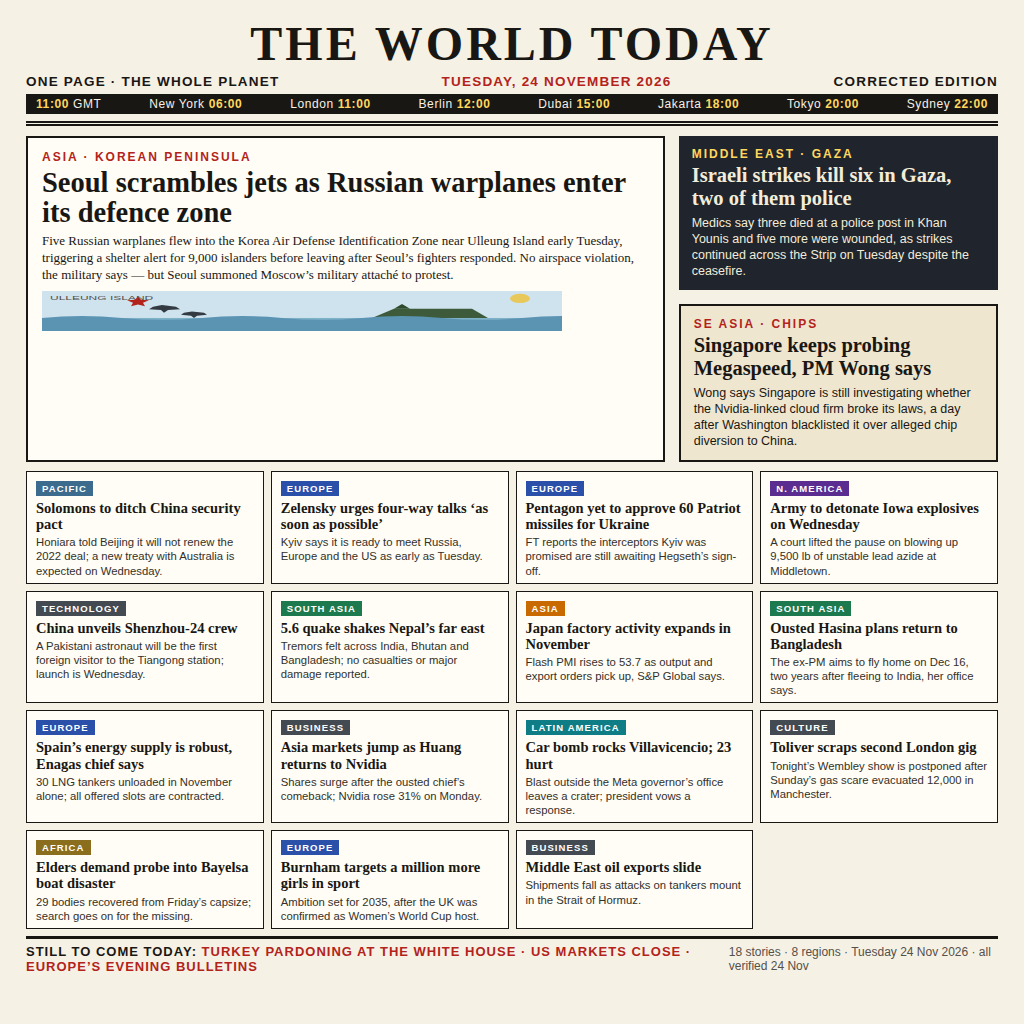
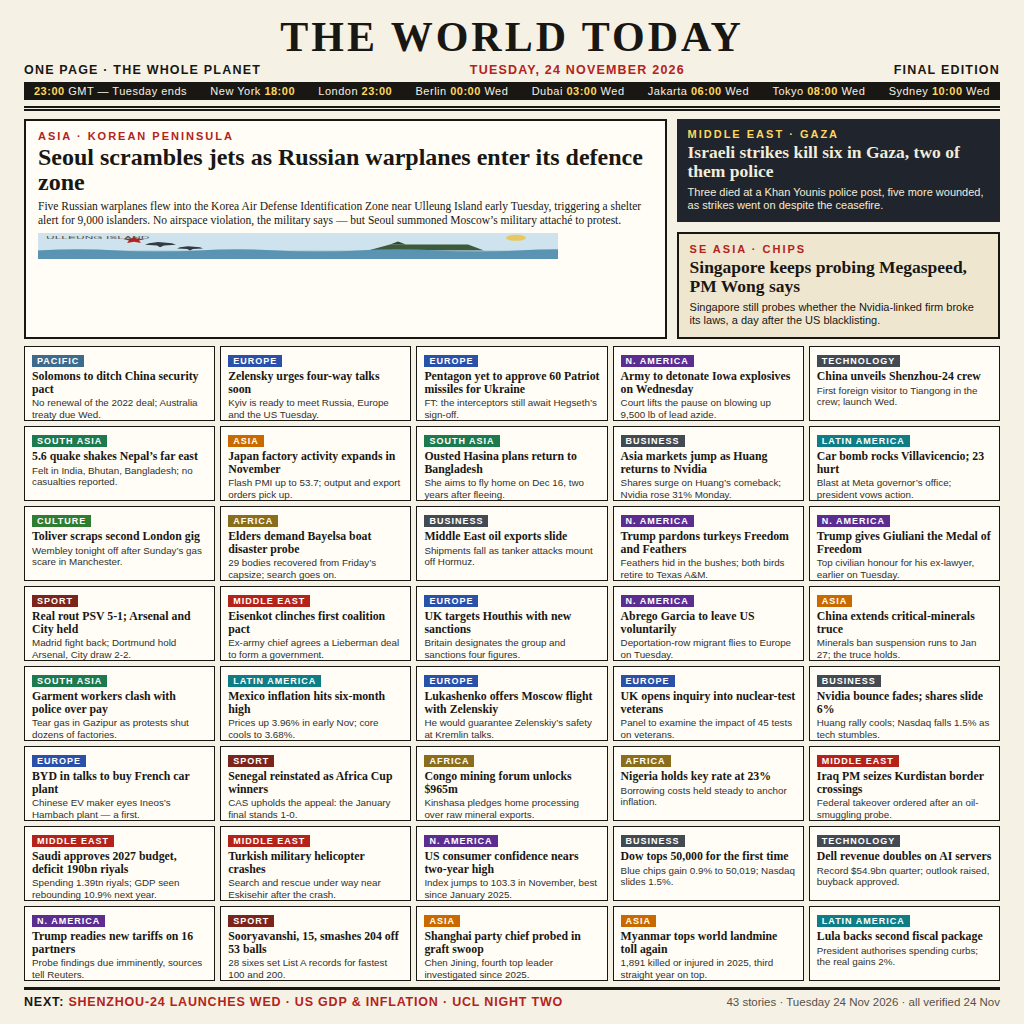
Final edition: 43 stories all verified Tue 24 Nov 2026

diff --git a/README.md b/README.md
@@ -6,15 +6,15 @@
 
 An entry for the make.fun bounty [news-image-20261124](https://make.fun/bounty/news-image-20261124): sum up the world's news of **Tuesday 24 November 2026** in one image.
 
-`main.ts` copies `entry.png` to `/output/entry.png` — no network, byte-identical on every run. The poster is a one-page broadsheet, "The World Today", drawn as HTML + inline SVG and rendered to a 1024×1024 PNG (240,636 bytes).
+`main.ts` copies `entry.png` to `/output/entry.png` — no network, byte-identical on every run. The poster is a one-page broadsheet, "The World Today", drawn as HTML + inline SVG and rendered to a 1024×1024 PNG (296,700 bytes).
 
 ## Program
 
 `main.ts` is a small authored deliverer: it resolves its own directory from its module URL, creates the output directory if it is missing, and copies `entry.png` there unchanged. It takes no arguments and reads nothing from the network, so repeated runs write identical bytes — verified locally by running it twice into separate directories and comparing the outputs byte for byte against the repository's `entry.png`.
 
-## What's on the page (corrected edition, 18 stories, 8 regions)
+## What's on the page (final edition, 43 stories, 12 sections)
 
-Every story on this page was verified against its source article's own text as an event or first report of **Tuesday 24 November 2026** — see `audit-v2.md` in the dev folder for the per-story check. This corrected edition replaces the v1 poster, whose stories mostly dated from 16–23 November.
+Every story on this page was verified against its source article's own text as an event or first report of **Tuesday 24 November 2026** — see `audit-v2.md` in the dev folder for the per-story check (50 stories verified in total; 43 fit on the page). This final edition completes the corrected v2 edition (18 stories) with the rest of Tuesday, once the day had ended in every time zone.
 
 **Lead — Asia / Korean Peninsula:** Seoul scrambles jets as Russian warplanes enter its defence zone. Five Russian warplanes entered the Korea Air Defense Identification Zone near Ulleung Island early Tuesday, triggering a shelter alert; Seoul summoned Moscow's military attache to protest.
 
@@ -22,19 +22,44 @@ Every story on this page was verified against its source article's own text as a
 
 **Cards:**
 - Pacific — Solomons to ditch China security pact
-- Europe — Zelensky urges four-way talks 'as soon as possible'
+- Europe — Zelensky urges four-way talks soon
 - Europe — Pentagon yet to approve 60 Patriot missiles for Ukraine
 - N. America — Army to detonate Iowa explosives on Wednesday
 - Technology — China unveils Shenzhou-24 crew
 - South Asia — 5.6 quake shakes Nepal's far east
 - Asia — Japan factory activity expands in November
 - South Asia — Ousted Hasina plans return to Bangladesh
-- Europe — Spain's energy supply is robust, Enagas chief says
 - Business — Asia markets jump as Huang returns to Nvidia
 - Latin America — Car bomb rocks Villavicencio; 23 hurt
 - Culture — Toliver scraps second London gig
-- Africa — Elders demand probe into Bayelsa boat disaster
-- Europe — Burnham targets a million more girls in sport
+- Africa — Elders demand Bayelsa boat disaster probe
 - Business — Middle East oil exports slide
+- N. America — Trump pardons turkeys Freedom and Feathers
+- N. America — Trump gives Giuliani the Medal of Freedom
+- Sport — Real rout PSV 5-1; Arsenal and City held
+- Middle East — Eisenkot clinches first coalition pact
+- Europe — UK targets Houthis with new sanctions
+- N. America — Abrego Garcia to leave US voluntarily
+- Asia — China extends critical-minerals truce
+- South Asia — Garment workers clash with police over pay
+- Latin America — Mexico inflation hits six-month high
+- Europe — Lukashenko offers Moscow flight with Zelenskiy
+- Europe — UK opens inquiry into nuclear-test veterans
+- Business — Nvidia bounce fades; shares slide 6%
+- Europe — BYD in talks to buy French car plant
+- Sport — Senegal reinstated as Africa Cup winners
+- Africa — Congo mining forum unlocks $965m
+- Africa — Nigeria holds key rate at 23%
+- Middle East — Iraq PM seizes Kurdistan border crossings
+- Middle East — Saudi approves 2027 budget, deficit 190bn riyals
+- Middle East — Turkish military helicopter crashes
+- N. America — US consumer confidence nears two-year high
+- Business — Dow tops 50,000 for the first time
+- Technology — Dell revenue doubles on AI servers
+- N. America — Trump readies new tariffs on 16 partners
+- Sport — Sooryavanshi, 15, smashes 204 off 53 balls
+- Asia — Shanghai party chief probed in graft swoop
+- Asia — Myanmar tops world landmine toll again
+- Latin America — Lula backs second fiscal package
 
-Plus a world-clock strip (11:00 GMT) and a "still to come today" footer. On make.fun the last submission before the deadline is the final entry.
+Plus a world-clock strip (23:00 GMT — the day ended everywhere) and a "next" footer. On make.fun the last submission before the deadline is the final entry.
